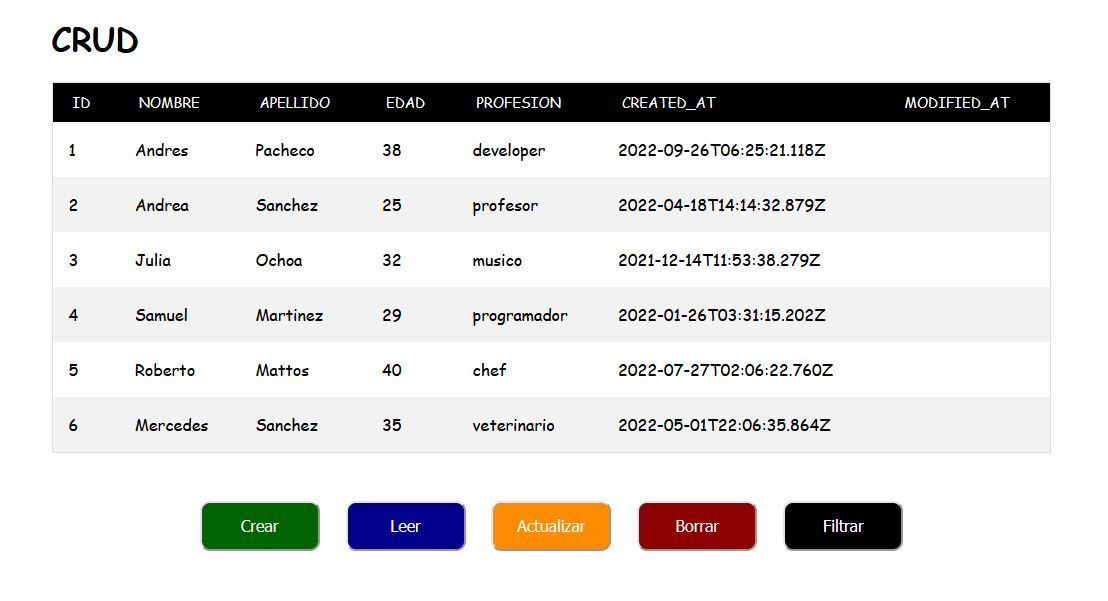
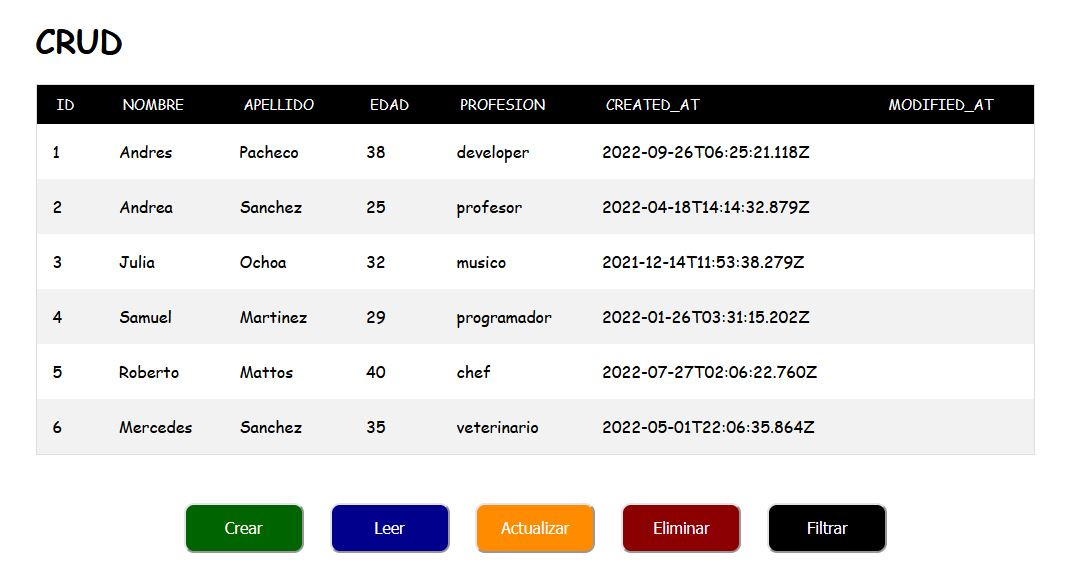
crud and interface

diff --git a/script.js b/script.js
@@ -307,7 +307,7 @@ function main() {
    // update
    button("Actualizar", "orange", "darkorange", update);
    // delete
-   button("Borrar", "red", "darkred", del);
+   button("Eliminar", "red", "darkred", del);
    // filter by date
    button("Filtrar", "gray", "black", filter_by_date);
 }
